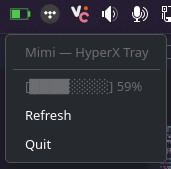
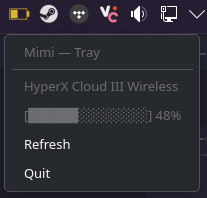
docs: update preview, subtitle

diff --git a/src/main.rs b/src/main.rs
@@ -4,7 +4,7 @@
 //    |        |,--.|        |,--.
 //   |  |  |  ||  ||  |  |  ||  |
 //   `--`--`--'`--'`--`--`--'`--'
-//                                      HyperX tray icon
+//                                      Headphone tray icon
 
 mod battery;
 mod devices;

diff --git a/README.md b/README.md
@@ -4,7 +4,7 @@
 </div>
 <br>
 
-**Mimi** — HyperX tray icon
+**Mimi** — Headphone tray icon
 
 rust rewrite of [hyperx-battery-reader](https://github.com/durpyneko/hyperx-battery-reader/)
 
@@ -29,7 +29,7 @@ Add udev rule
 sudo nano /etc/udev/rules.d/99-mimi.rules
 ```
 
-with content (HyperX Cloud III Wireless)
+with content (e.g. HyperX Cloud III Wireless)
 ```conf
 SUBSYSTEM=="hidraw", ATTRS{idVendor}=="03f0", ATTRS{idProduct}=="05b7", MODE="0666", TAG+="uaccess"
 ```